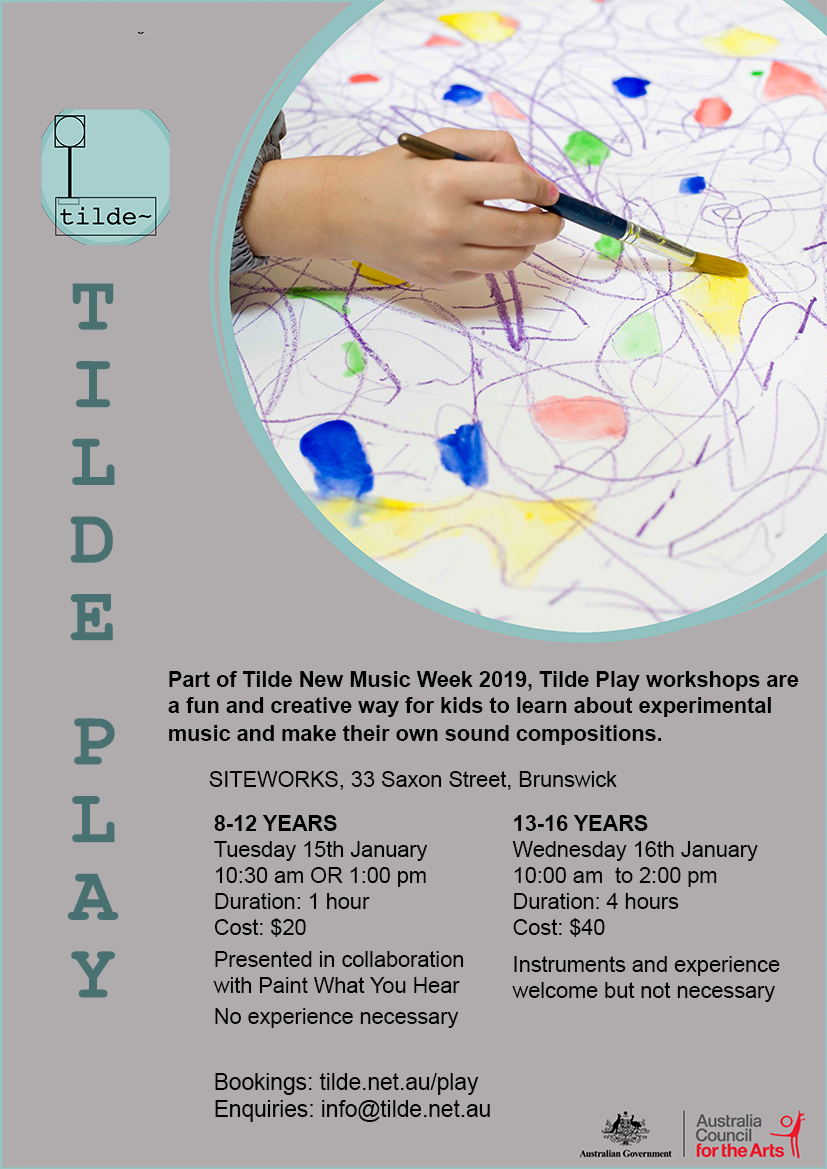
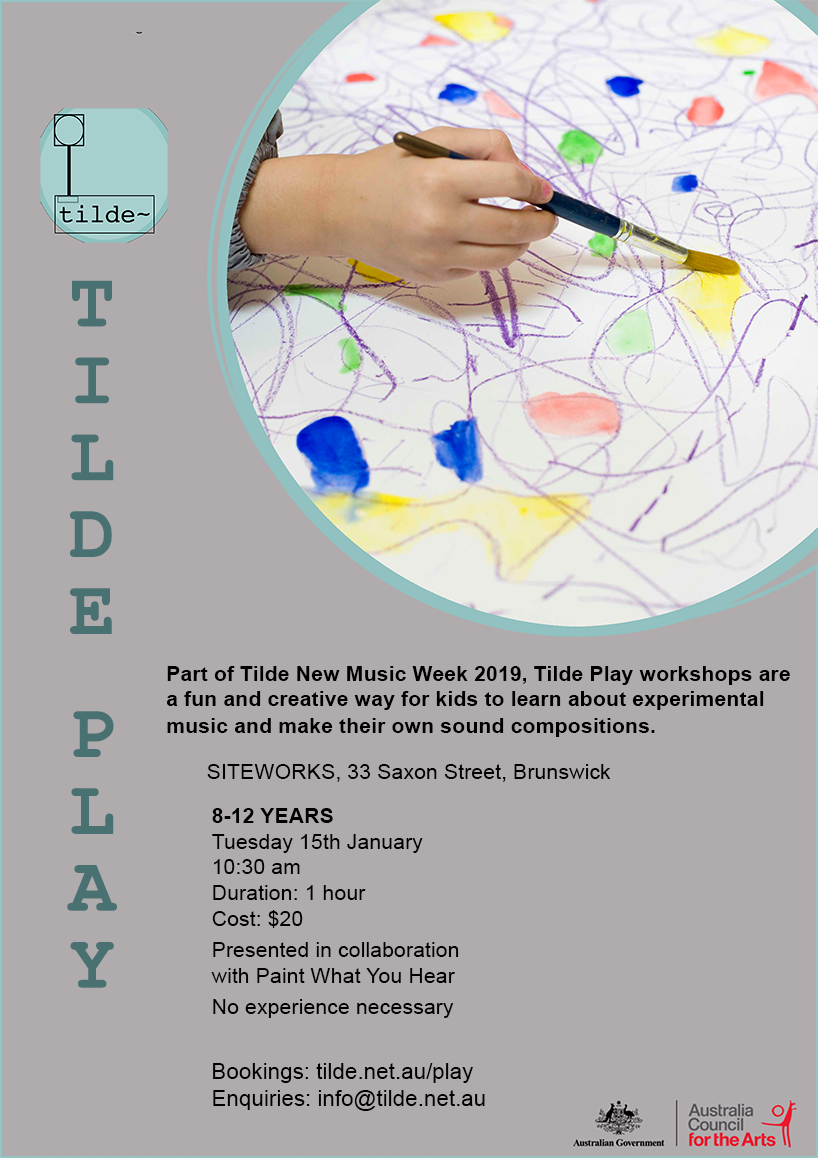
Tilde Play

Changed region(s): [[0.2139, 0.5596, 0.978, 0.8705], [0.2751, 0.9016, 0.5807, 0.9637], [0.0611, 0.0933, 0.0917, 0.1244]]

diff --git a/pages/play.md b/pages/play.md
@@ -5,41 +5,26 @@ permalink: /play/
 published: true
 ---
 <!-- Insert Copy Here -->
-![Tilde Play Flyer](/assets/img/TildePlay2-scaled.png)
+<!-- ![Tilde Play Flyer](/assets/img/TildePlay2-scaled.png)-->
 <br />
 Tilde Play kids’ workshops are a fun and creative way to learn about sound. They will learn about experimental music and make their own sound compositions. <br />
 
 These workshops will get kids listening actively and exploring new sound worlds. Experimental music’s focus on collaboration, creativity and playfulness provide a fantastic method of music education for children, and these workshops introduce modern music philosophies that are often left out of primary and secondary music education. When all sounds are available for play, children can participate in meaningful musical experiences without having first mastered instrumental skills.<br />
 
-**8-12 Years**
+<!-- **8-12 Years** -->
 
 Presented in partnership with Paint What You Hear<br />
 
 This workshop uses contemporary music and visual art to engage young people and adults in the arts, inviting them to respond to live music using painting and drawing. Participants listen to live musicians and respond to the music exploring lines, shape, colour and their own imagination. Children learn about the elements of music and how to represent sound through artistic expression. The workshop is engaging, fun and messy!<br />
 
-**13-16 Years**
-
-Presented by Miranda Hill (3 Shades Black) and Erica Rasmussen (Paint What You Hear)<br />
-
-Participants learn about experimental music and 20th and 21st century philosophies of music: that all sound can be music! They will explore the worlds of serialism, extended techniques, and graphic scores through games and activities, culminating in a short performance.
-
 <!-- Do Not Edit -->
-### Tilde Play: 8-12yo, Session 1.
-### 15/Jan/2019, 10:30am.
-<script async defer src="https://www.trybooking.com/widget.js"></script>
+### Tilde Play: 8-12yo.
+### Date TBA Feb 2019.
+<!--script async defer src="https://www.trybooking.com/widget.js"></script>
 <div class="tryb-widget" data-type="buttonWidget" data-eid="455676" data-showlogo="False" data-text="Get Tickets"></div>
-<br />
-### Tilde Play: 8-12yo, Session 2.
-### 15/Jan/2019, 1:00pm.
-<script async defer src="https://www.trybooking.com/widget.js"></script>
-<div class="tryb-widget" data-type="buttonWidget" data-eid="455677" data-showlogo="False" data-text="Get Tickets"></div>
-<br />
-### Tilde Play: 13-16yo
-### 16/Jan/2019, 10:00am.
-<script async defer src="https://www.trybooking.com/widget.js"></script>
-<div class="tryb-widget" data-type="buttonWidget" data-eid="455680" data-showlogo="False" data-text="Get Tickets"></div>
+<br />-->
 
-## Made possible with funding from:
+##Made possible with funding from:
 ![Creative Vic Logo](/assets/img/CreativeVictoriaLogo_lores.jpg)
 <br />
 ![Australia Council Logo](/assets/img/aca_logo_horizontal_small_rgb-54322b14eed17.png)

diff --git a/pages/tnmw.md b/pages/tnmw.md
@@ -54,21 +54,17 @@ Showcasing participants and faculty of the 2019 Tilde New Music Academy<br />
 <script async defer src="https://www.trybooking.com/widget.js"></script>
 <div class="tryb-widget" data-type="buttonWidget" data-eid="457232" data-showlogo="False" data-text="Get Tickets"></div><br />
 
-## [TILDE PLAY CHILDREN’S WORKSHOP](/play)
+<!-- ## [TILDE PLAY CHILDREN’S WORKSHOP](/play)
 Tilde Play kids’ workshops are a fun and creative way to learn about sound. They will learn about experimental music and make their own sound compositions.<br />
 
 These workshops will get kids listening actively and exploring new sound worlds. Experimental music’s focus on collaboration, creativity and playfulness provide a fantastic method of music education for children, and these workshops introduce modern music philosophies that are often left out of primary and secondary music education. When all sounds are available for play, children can participate in meaningful musical experiences without having first mastered instrumental skills.<br />
 
-15-16 Jan 2019, SITEWORKS, Brunswick
-**8-12 Workshop 1, 15/Jan**
+ **15 Jan 2019, SITEWORKS, Brunswick**
+**10:30am** 
+
 <script async defer src="https://www.trybooking.com/widget.js"></script>
-<div class="tryb-widget" data-type="buttonWidget" data-eid="455676" data-showlogo="False" data-text="Get Tickets"></div><br />
-**8-12 Workshop 2, 15/Jan**
-<script async defer src="https://www.trybooking.com/widget.js"></script>
-<div class="tryb-widget" data-type="buttonWidget" data-eid="455677" data-showlogo="False" data-text="Get Tickets"></div><br />
-**13-16, 16/Jan**
-<script async defer src="https://www.trybooking.com/widget.js"></script>
-<div class="tryb-widget" data-type="buttonWidget" data-eid="455680" data-showlogo="False" data-text="Get Tickets"></div><br />
+<div class="tryb-widget" data-type="buttonWidget" data-eid="455676" data-showlogo="False" data-text="Get Tickets"></div><br /> -->
+
 
 ## [TILDE NEW MUSIC FESTIVAL](/festival)
 A spectacular day of performances and installations

diff --git a/_program/G_001.md b/_program/G_001.md
@@ -5,7 +5,7 @@ promo-image: '/images/artists/Collaborations.jpg'
 start-time: '11:00' #Times should be written in 24 hour time
 end-time: '23:00'
 all-day: true
-space: 'grounds' #Choices are 'white box', 'black box', 'open box', 'grounds'
+space: 'outside' #Choices are 'white box', 'black box', 'open box', 'grounds'
 ---
 <!-- Description -->
 Alice Bennett: A Potplant in the Corner (01:30') [00:00 - 01:30]
